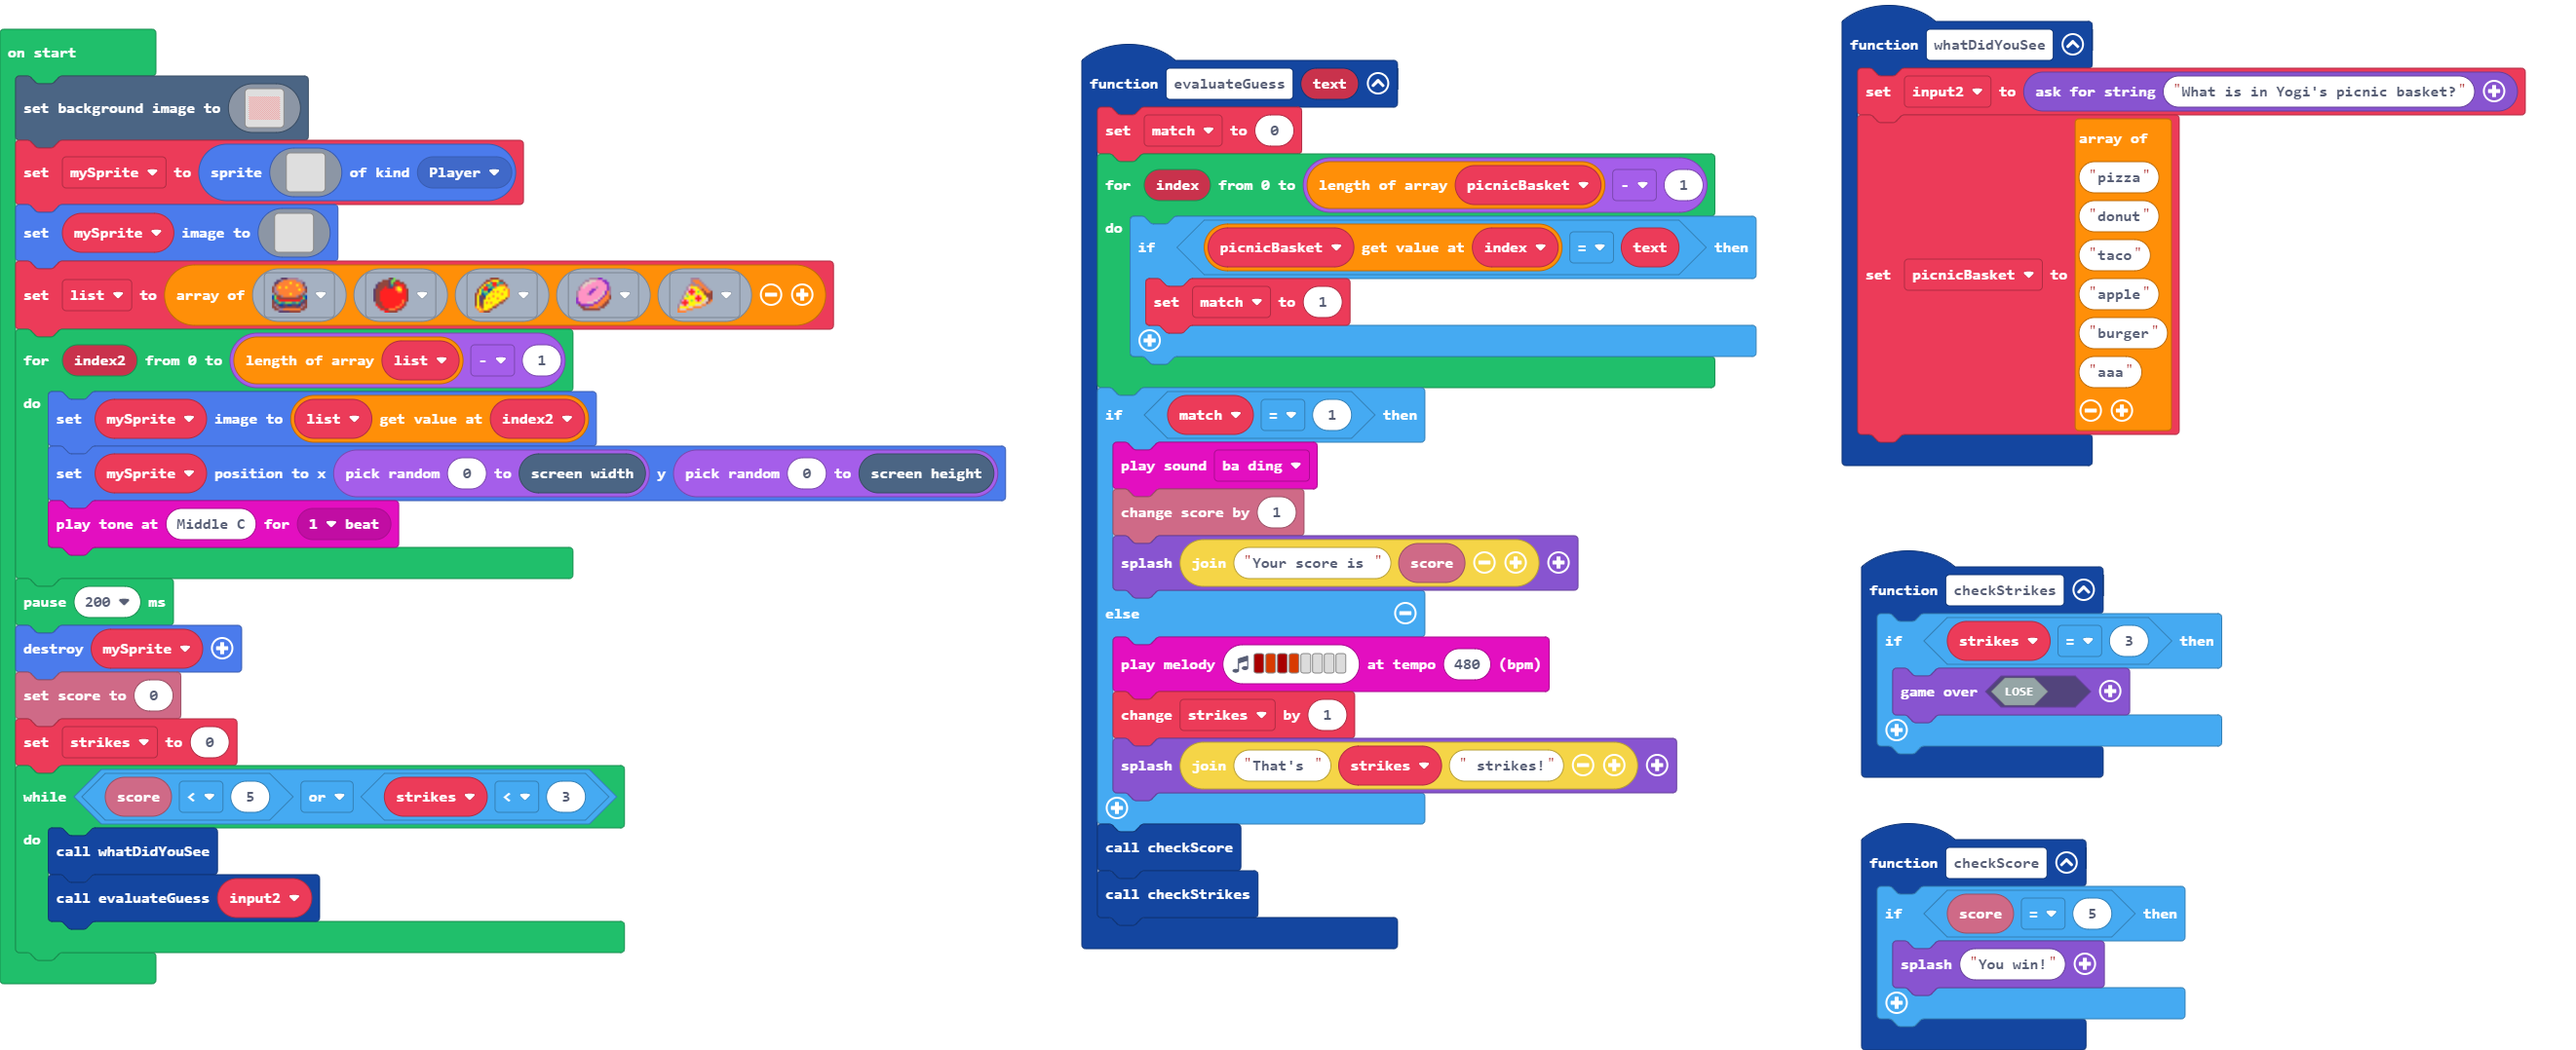
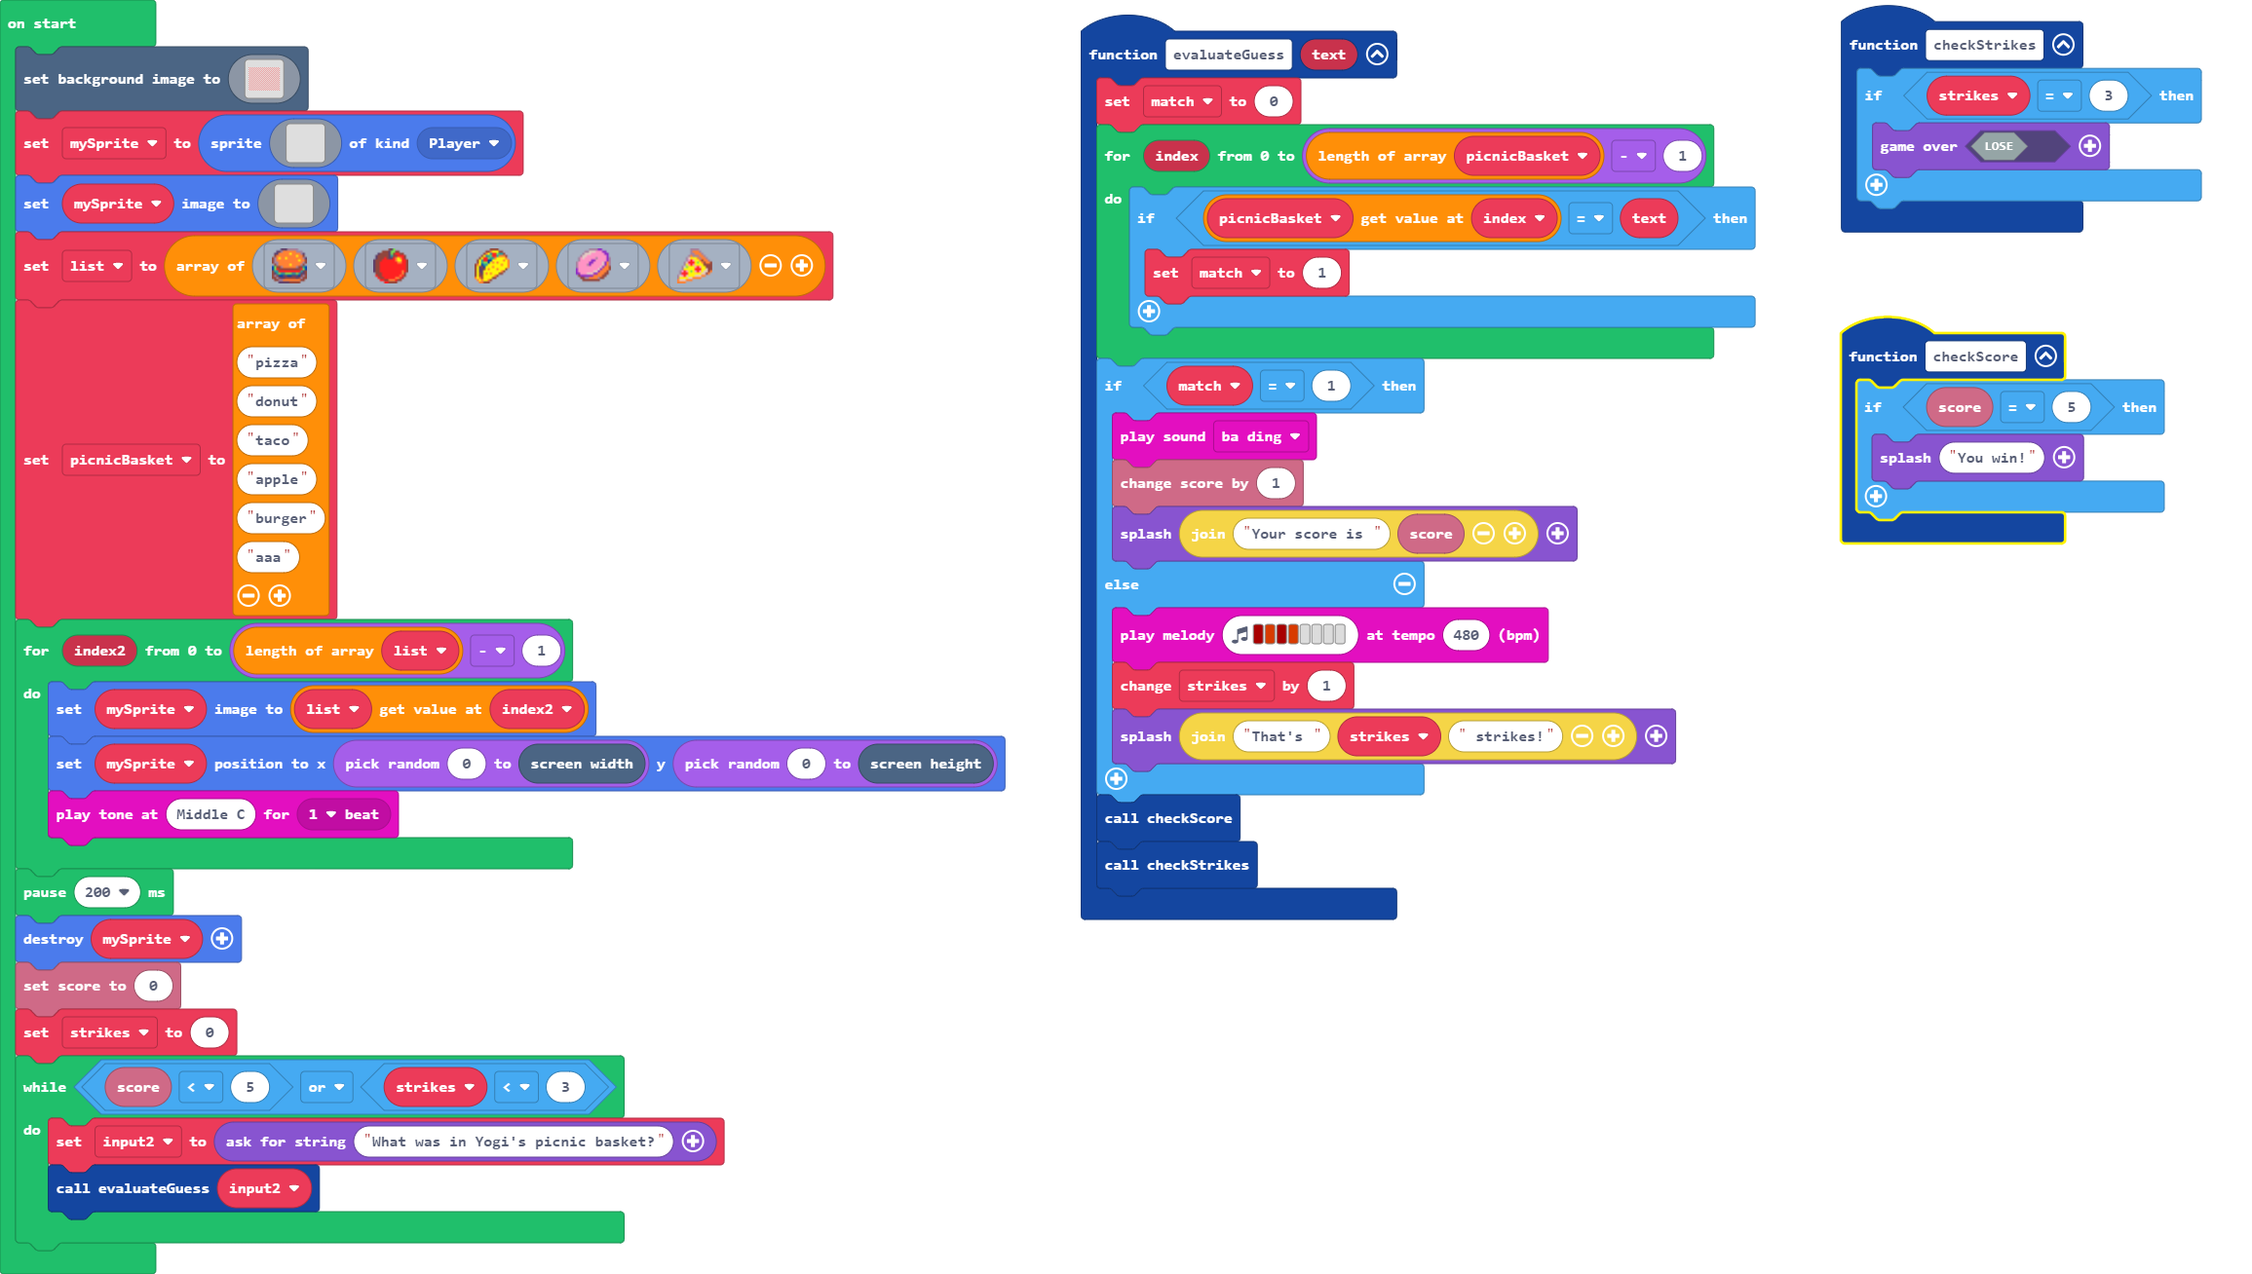
moved food string array to start

diff --git a/main.ts b/main.ts
@@ -27,21 +27,10 @@ function checkStrikes () {
         game.over(false)
     }
 }
-function whatDidYouSee () {
-    input2 = game.askForString("What is in Yogi's picnic basket?")
-    picnicBasket = [
-    "pizza",
-    "donut",
-    "taco",
-    "apple",
-    "burger",
-    "aaa"
-    ]
-}
-let picnicBasket: string[] = []
 let match = 0
 let input2 = ""
 let strikes = 0
+let picnicBasket: string[] = []
 scene.setBackgroundImage(img`
     2222211111222221111122222111112222211111222221111122222111112222211111222221111122222111112222211111222221111122222111112222211111222221111122222111112222211111
     2222211111222221111122222111112222211111222221111122222111112222211111222221111122222111112222211111222221111122222111112222211111222221111122222111112222211111
@@ -201,6 +190,14 @@ mySprite.setImage(img`
     . . . . . . . . . . . . . . . . 
     `)
 let list = [sprites.food.smallBurger, sprites.food.smallApple, sprites.food.smallTaco, sprites.food.smallDonut, sprites.food.smallPizza]
+picnicBasket = [
+"pizza",
+"donut",
+"taco",
+"apple",
+"burger",
+"aaa"
+]
 for (let index2 = 0; index2 <= list.length - 1; index2++) {
     mySprite.setImage(list[index2])
     mySprite.setPosition(randint(0, scene.screenWidth()), randint(0, scene.screenHeight()))
@@ -211,6 +208,6 @@ mySprite.destroy()
 info.setScore(0)
 strikes = 0
 while (info.score() < 5 || strikes < 3) {
-    whatDidYouSee()
+    input2 = game.askForString("What was in Yogi's picnic basket?")
     evaluateGuess(input2)
 }
